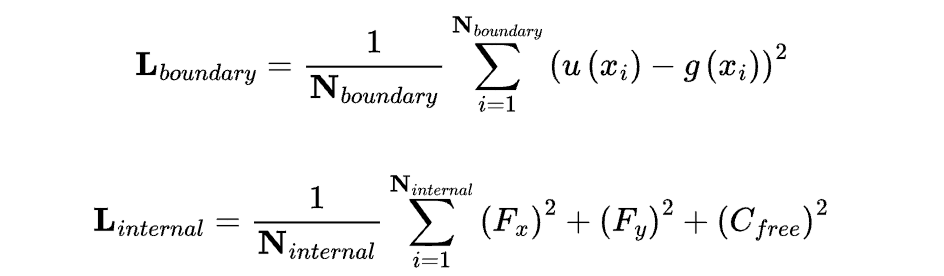
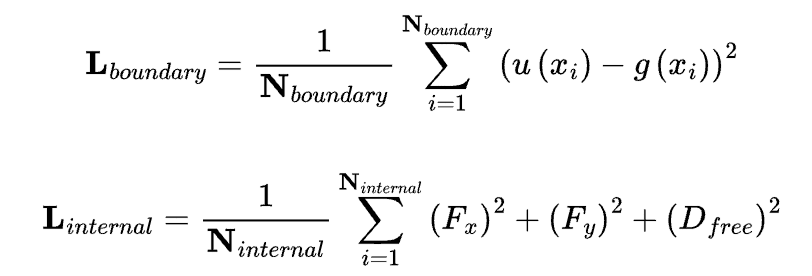
regular update

diff --git a/README.md b/README.md
@@ -17,7 +17,7 @@ $\mathbf{v} = \left ( u , v \right )$ is the velocity vector. $\mathrm{}{p}$ is 
 
 **Loss functions**
 
-![loss-functions](./image/loss_functions.png)
+![loss-functions](./image/Loss_Functions.png)
 
 $$ F_x = \frac{\partial u}{\partial t} + u \frac{\partial u}{\partial x} + v \frac{\partial u}{\partial y} + \frac{1}{\rho} \frac{\partial p}{\partial x} - \nu \left(\frac{\partial^2 u}{\partial x^2} - \frac{\partial^2 u}{\partial y^2}\right) $$
 
@@ -26,5 +26,6 @@ $$ F_y = \frac{\partial v}{\partial t} + u \frac{\partial v}{\partial x} + v \fr
 $$ D_{free} = \frac{\partial u}{\partial x} + \frac{\partial v}{\partial y} $$
 
 **Test Result**
+
 left side is the velocity field. right hand side is the pressure field.
 ![Lid-Driven](./image/Lid-Driven.gif)
